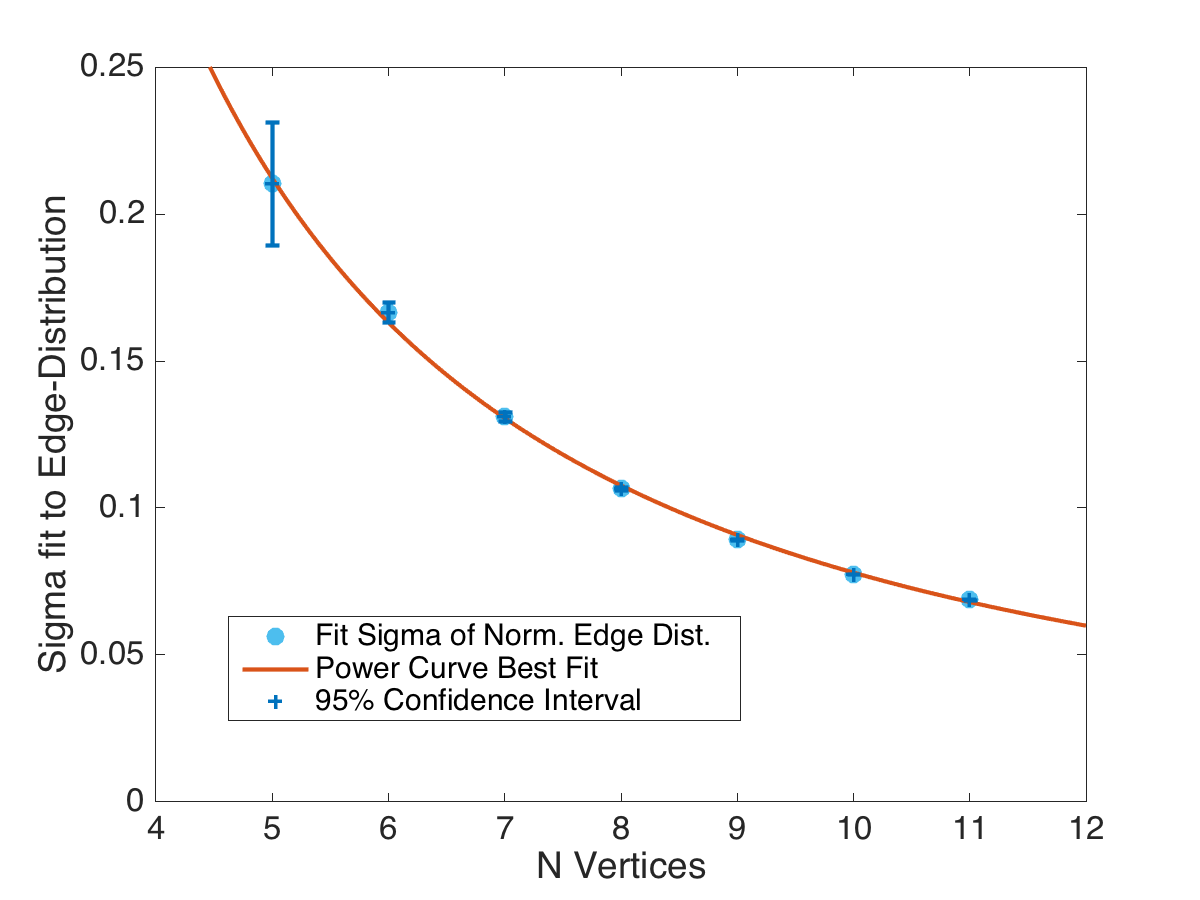
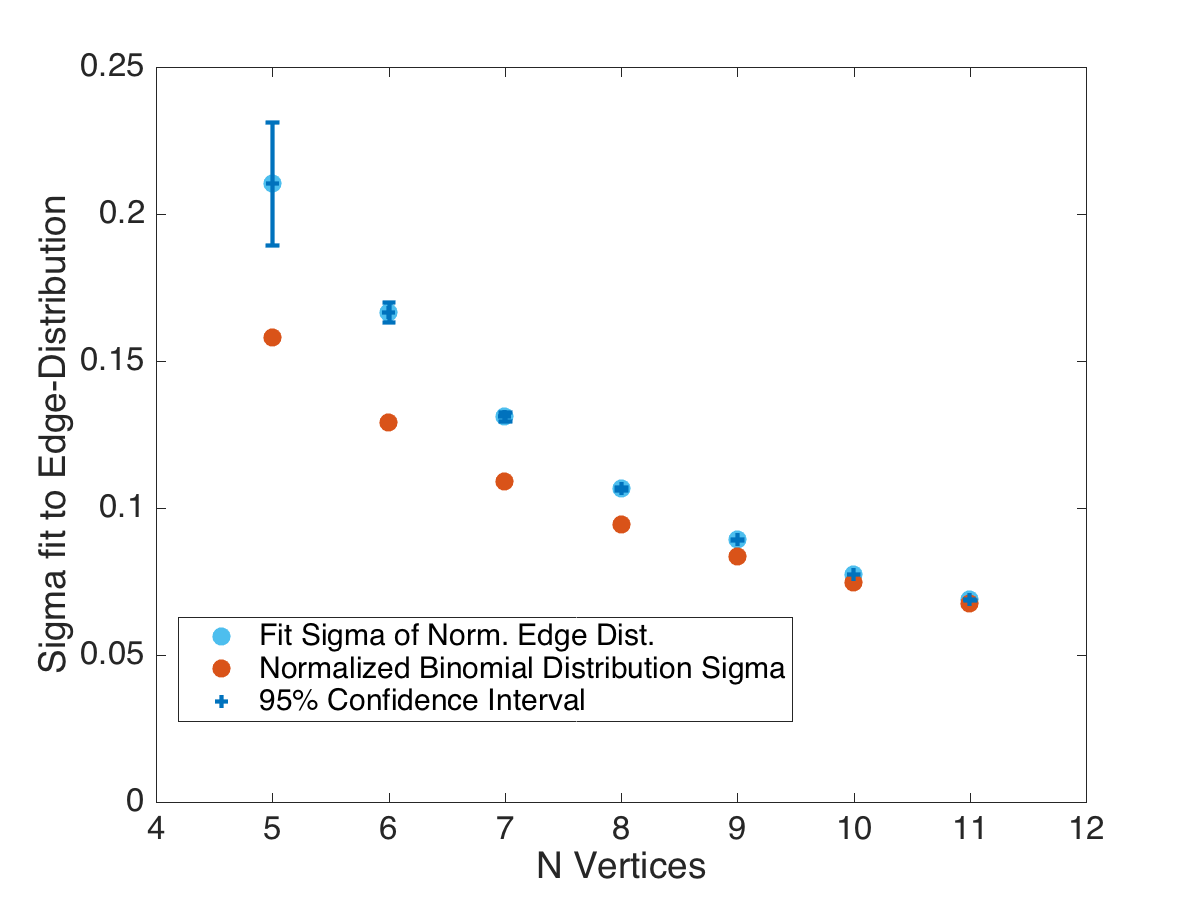
Thoughts on the decreasing sigma question... appears to converge. Can we explain experimental sigmas with these results?

diff --git a/Matlab/temp.m b/Matlab/temp.m
@@ -1,0 +1,88 @@
+close all;
+
+binomialN = 5 : 11;
+
+eMax = .5 * binomialN .* (binomialN-1);
+
+sigmaExpected = .5 * sqrt(eMax);
+
+normSigmaExpected = sigmaExpected ./ eMax;
+
+
+
+distributionSigmas = [
+    5.0000,    0.2104;
+    6.0000,    0.1666;
+    7.0000,    0.1310;
+    8.0000,    0.1065;
+    9.0000,    0.0893;
+   10.0000,    0.0775;
+   11.0000,    0.0688;
+];
+
+distribution95Errors = [
+    5.0000,    .0210 ;
+    6.0000,    .0034;
+    7.0000,    .0015;
+    8.0000,    .0005;
+    9.0000,    .00016;
+   10.0000,    .00003;
+   11.0000,    .00005;
+];
+
+figure1 = figure;
+
+% Create axes
+axes1 = axes('Parent',figure1);
+hold(axes1,'on');
+
+
+X1 = 5 : 11;
+Y1 = distributionSigmas(:,2);
+E1 = distribution95Errors(:,2);
+
+%f = fit(X1',Y1,'power1');
+% Create plot
+plot(X1,Y1,'DisplayName','Fit Sigma of Norm. Edge Dist.','MarkerSize',30,...
+    'Marker','.',...
+    'LineStyle','none',...
+    'Color',[0.301960796117783 0.745098054409027 0.933333337306976]);
+
+plot(binomialN, normSigmaExpected, 'DisplayName','Normalized Binomial Distribution Sigma','MarkerSize',30,...
+    'Marker','.',...
+    'LineStyle','none');
+
+%fX = 4 : .05 : 12;
+%fY = f(fX);
+%plot(fX, fY, 'DisplayName','Power Curve Best Fit', 'LineWidth',2);
+
+% Create errorbar
+errorbar(X1,Y1,E1,'DisplayName','95% Confidence Interval','Marker','+',...
+    'LineStyle','none',...
+    'LineWidth',2,...
+    'Color',[0 0.447058826684952 0.74117648601532]);
+
+% Create xlabel
+xlabel('N Vertices');
+
+% Create ylabel
+ylabel('Sigma fit to Edge-Distribution');
+
+%% Uncomment the following line to preserve the X-limits of the axes
+xlim(axes1,[4 12]);
+%% Uncomment the following line to preserve the Y-limits of the axes
+ylim(axes1,[0 0.25]);
+box(axes1,'on');
+% Set the remaining axes properties
+set(axes1,'FontSize',16);
+% Create legend
+legend1 = legend(axes1,'show');
+set(legend1,...
+    'Position',[0.184944710115731 0.205069124423963 0.438035541230769 0.105990783410138]);
+
+
+
+
+hold(axes1, 'off');
+
+print('ngraphs/decreasingsigma','-dpng');

diff --git a/Matlab/ngraphs/binomialResults.m b/Matlab/ngraphs/binomialResults.m
@@ -1,0 +1,8 @@
+
+binomialN = 5 : 11;
+
+eMax = .5 * binomialN .* (binomialN-1);
+
+sigmaExpected = .5 * sqrt(eMax);
+
+normSigmaExpected = sigmaExpected ./ eMax;
